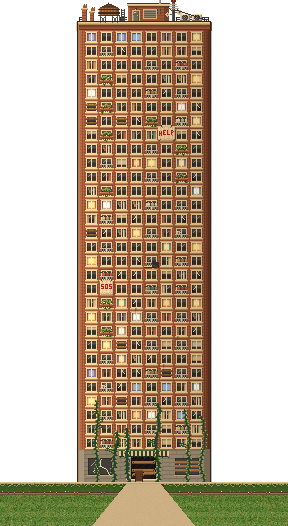
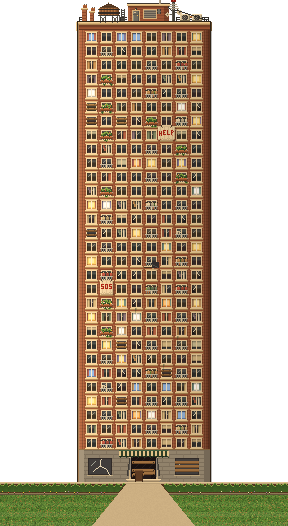
Round 49e: the opening's vines writhe
The sick lower floors' growth is its own transparent picture now
(assets/opening/growth_2|3.png), laid over the facade and moved by a
texel-snapped shader driven by the opening timeline: the afternoon's ivy
stirs, the night's growth heaves. The mould stays baked in the wall.

Claude-Session: https://claude.ai/code/session_018G5NCP3m9WbvqqpohXSrqQ

diff --git a/tools/art/opening_facade.py b/tools/art/opening_facade.py
@@ -343,9 +343,10 @@ def _leaf(c, x, y, pal, flip=1):
 
 
 def growth(c, run, floor_y_fn, dim=1.0, rng_seed=4021):
-    """Draw the sick lower floors for this run. A pure function of the run: which piers carry a vine, how it wanders, and how high it WOULD
-    climb are fixed; the run only decides how far each has got — so run 2's vines are run 3's, shorter. `dim` darkens every colour (it is
-    drawn after the grade, so the growth is lit the way the night is)."""
+    """Draw the sick lower floors' GROWTH for this run — ivy and flesh up the piers, runners across the sills, the Nest's membranes and drips, the
+    fringe at the foot — onto `c`, which is a TRANSPARENT layer of its own (round 49d: the game wriggles it; it is no longer baked into the facade).
+    Every pixel is opaque. A pure function of the run: which piers carry a vine, how it wanders, and how high it WOULD climb are fixed; the run only
+    decides how far each has got — so run 2's vines are run 3's, shorter. `dim` darkens every colour (the layer is lit the way the night is)."""
     k = GROWTH_BY_RUN.get(run, 0.0)
     if k <= 0.0:
         return
@@ -428,19 +429,6 @@ def growth(c, run, floor_y_fn, dim=1.0, rng_seed=4021):
                     c.put(mx, y + 12 + d, flesh[0])
                 c.put(mx, y + 12 + ln, wet)
                 c.put(mx + 1, y + 12 + ln - 1, flesh[1])
-    # ---- the Green's mould: a dark stain running down from some sills (floors 12-6)
-    for n in range(LOW_GROWTH_TOP, NEST_TOP, -1):
-        y = floor_y_fn(n)
-        depth = (LOW_GROWTH_TOP - n + 1) / float(LOW_GROWTH_TOP)
-        for b in range(G.BAYS):
-            fr = random.Random(n * 7001 + b * 131 + 3)
-            if fr.random() < (0.10 + 0.25 * depth) * k:
-                fx = G.INNER_X0 + b * G.BAY_W + 2
-                mx = fx + fr.randrange(1, 10)
-                for d in range(fr.randrange(3, 8)):
-                    c.put(mx, y + 12 + d, (30, 52, 30, int(120 * (1.0 - d / 8.0))))
-                    if d < 3:
-                        c.put(mx + 1, y + 12 + d, (30, 52, 30, int(70 * (1.0 - d / 3.0))))
     # ---- the base: a fringe of flesh along the foot of the lobby, short and thick, wet at the tips (the night's)
     for x in range(G.BX0 + 2, G.BX1 - 2, 3):
         if door0 <= x <= door1 or run != 3:
@@ -453,6 +441,31 @@ def growth(c, run, floor_y_fn, dim=1.0, rng_seed=4021):
                 if d % 3 == 1:
                     c.put(x + 1, foot - d, flesh[0])
             c.put(x, foot - h, wet if fr.random() < 0.5 else flesh[2])
+
+
+def mould(c, run, floor_y_fn):
+    """The Green's mould: a dark stain running down from some sills (floors 12-6). A STAIN ON THE WALL — it is drawn into the facade itself and never
+    moves (round 49d split it from `growth`, which is its own layer so it can wriggle). Semi-transparent, so it must be drawn over the wall."""
+    k = GROWTH_BY_RUN.get(run, 0.0)
+    if k <= 0.0:
+        return
+    for n in range(LOW_GROWTH_TOP, NEST_TOP, -1):
+        y = floor_y_fn(n)
+        depth = (LOW_GROWTH_TOP - n + 1) / float(LOW_GROWTH_TOP)
+        for b in range(G.BAYS):
+            fr = random.Random(n * 7001 + b * 131 + 3)
+            if fr.random() < (0.10 + 0.25 * depth) * k:
+                fx = G.INNER_X0 + b * G.BAY_W + 2
+                mx = fx + fr.randrange(1, 10)
+                for d in range(fr.randrange(3, 8)):
+                    c.put(mx, y + 12 + d, (30, 52, 30, int(120 * (1.0 - d / 8.0))))
+                    if d < 3:
+                        c.put(mx + 1, y + 12 + d, (30, 52, 30, int(70 * (1.0 - d / 3.0))))
+
+
+def growth_rows(floor_y_fn):
+    """The rows the growth spans, for the game's wriggle: (top, foot) = the highest row a vine can reach (floor 12's) and the building's foot."""
+    return floor_y_fn(LOW_GROWTH_TOP), G.GROUND_Y - 1
 
 
 def _mass(c, gx, gy, fr, flesh, pale, wet):

diff --git a/tools/art/opening.py b/tools/art/opening.py
@@ -1334,13 +1334,22 @@ def draw_scene(run=1):
             night_light(c.img)
         c.px = c.img.load()
     keep = [(hp['x'] - 1, hp['y'] - 2, hp['x'] + hp['w'] + 1, hp['y'] + hp['h'] + 2) for hp in meta['helps']]
-    saved = [(r, c.img.crop(r)) for r in keep]
-    opening_facade.growth(c, run, floor_y, dim={1: 1.0, 2: 0.9, 3: 0.66}[run])      # the sick lower floors, laid over the graded wall (nothing above floor 12)
-    for (r, patch) in saved:                                      # …but a HELP sheet is the point of its window: no vine grows over it
-        c.img.paste(patch, r[:2])
+    opening_facade.mould(c, run, floor_y)                         # the Green's stains: on the wall, still
     c.px = c.img.load()
     meta['passers'] = choose_passers(meta, run)
     meta['_over'] = window_overlays(c.img, meta)          # the frames of the people's windows, cut from the FINISHED (graded) picture: the game lays them back over its figures
+    # the sick lower floors' growth (nothing above floor 12) is its OWN transparent layer, drawn the way the night is lit and laid by the game over the
+    # facade (and under everything the game adds to it) — so the game can make it WRITHE (owner round 49d: "make them sort of wriggle, as if they are
+    # trying to consume the building"). Laid flat it is exactly what used to be baked into the wall.
+    cgr = Canvas(W, SCENE_H, seed=606)
+    opening_facade.growth(cgr, run, floor_y, dim={1: 1.0, 2: 0.9, 3: 0.66}[run])
+    for r in keep:                                                # …but a HELP sheet is the point of its window: no vine grows over it
+        cgr.img.paste((0, 0, 0, 0), r)
+    cgr.px = cgr.img.load()
+    if cgr.img.getbbox() is not None:
+        top, foot = opening_facade.growth_rows(floor_y)
+        meta['_growth'] = cgr.img
+        meta['growth'] = {'top': top, 'foot': foot}
     # the garden layer, on its own canvas
     cg = Canvas(W, SCENE_H, seed=505)
     gmeta = {'fires': []}
@@ -1662,6 +1671,9 @@ def build(run):
     over = scene_meta.pop('_over', None)
     if over is not None:
         out['winover_%d.png' % run] = over
+    growth_img = scene_meta.pop('_growth', None)
+    if growth_img is not None:
+        out['growth_%d.png' % run] = growth_img
     out['garden_%d.png' % run] = garden
     if run == 2:                                                  # the afternoon's fog (owner round 36j)
         out['fog_2.png'] = draw_fog(2, 'mid')
@@ -1759,6 +1771,8 @@ def compose(files, meta, cam, run):
             img.alpha_composite(spr, (cl['x'], y))
     top = VIEW_H - L['scene']['h'] + int(round(L['scene']['p'] * cam))
     img.alpha_composite(files['scene_%d.png' % run], (0, top))
+    if ('growth_%d.png' % run) in files:                          # the vines, laid flat (the game wriggles them)
+        img.alpha_composite(files['growth_%d.png' % run], (0, top))
     for key, f in (('fog', 'fog_%d.png'), ('garden', 'garden_%d.png'), ('fogf', 'fogf_%d.png')):
         if (f % run) in files:
             top = VIEW_H - L[key]['h'] + int(round(L[key]['p'] * cam))

diff --git a/CLAUDE.md b/CLAUDE.md
@@ -2782,4 +2782,6 @@ means no rendering — UI layout and art still need an in-editor look.
   **(1) Fire damage** — one block of numbers in `WorldState` ("FIRE DAMAGE": `FIRE_BURN_INTERVAL` 2.2 s, `FIRE_BURN_POINTS_PER_STAGE` 2, `FIRE_BURN_INSET` 14 px) read by every fire (the corridor's `building_floors`, an apartment's `room.gd`, a Molotov splash) — the three copies of `FIRE_DMG_INTERVAL` / `BURN_INTERVAL` 1.1 are gone. A tick is **half a health stage** (`Player.receive_burn`: the flash / hurt pose / pack slam of any hit via the shared `_begin_hit()`, a stage dropped on every second tick), so a stage costs **4.4 s in the flames** (was 1.1 s: five stages in 5.5 s). **My reading of "cut it by half and the speed too": damage ×½ AND the rate ×½, i.e. a quarter of the old hurt per second — if you meant only one of them, `FIRE_BURN_INTERVAL` / `FIRE_BURN_POINTS_PER_STAGE` are the two dials.** **The box**: `FireField.fire_hot_at(x)` is no longer "the player's 42 px burning cell" — it is the **carpet the front layer actually draws** (`_carpet_at`, shared with `run_spans`: the cell is lit, and not within 36 px of a door, and not in the stairwell keep-out; `carpet_stretch_at`), pulled `FIRE_BURN_INSET` in from each end of the stretch (`burn_box`, never narrower than 12 px about its middle — `BURN_CORE_HALF`). The old rule hurt in the 36 px either side of every door (cells lit, nothing drawn), under the tapering cap at each end, and 8 px past the stairwell shaft (`STAIR_HEAT_MARGIN` is gone: the shaft's box is its drawn width pulled in). `is_burning_at` stays the CELL state (drawing, spreading, dousing). **Enemies use the same `fire_hot_at`** (`building_floors` / `room.gd` — the old player == enemy parity rule kept, so nothing is cooked where the player would not be), `ApartmentFire.fire_hot_at` = a spot's heart (`SPOT_RADIUS` − inset), `MolotovFire.in_fire(x, y, burn)` pulls the patch's ends in for the player's damage only (an enemy still catches anywhere in it). **Running through fire unburned already existed in the corridor and the splash; the apartment's interior fire lacked it and has it now.** Locked by `fire_test` (`_test_fire_hot_at` rewritten — 10 checks fail on the old cell rule; `_test_apartment_fire_box`, `_test_burn_on_floor` on a real floor with the player's physics off: nothing at 2.0 s, a half-tick at 2.6 s with the portrait held, one stage at 4.8 s, nothing running / at a lick / at a door — each mutation-checked: interval back to 1.1 and the running exemption removed each fail it) and `molotov_test`. `tools/bot_run.gd` asks `fire_hot_at` too. Not changed: an enemy's own burn damage-over-time (`BURN_INTERVAL` 1.5 in the zombies).
   **(2) Stamina** (`player.gd`): sprint drain 12 → **14.4** a second (+20 %; the re-engage floor is its own constant `STAMINA_SPRINT_MIN` 2.4 = the old 12 × 0.2, so it did not move); **walking at the combat pace** (`direction != 0`, not scavenge, not crouching, not sprinting, not shoving) drains `STAMINA_COMBAT_WALK_DRAIN` **3.0** a second — about a fifth of a sprint, ~22 of 100 across a 7 s corridor — and **nothing recovers while it does** (like a sprint); the slow scavenge walk, a crouch and god mode cost nothing, and an empty bar stays empty while you keep walking in combat mode (no speed penalty — the cost is that it cannot swing or shove, `stamina < 25 %` / `< 10`). Both rates run through `get_sprint_drain_mult()` (Vivianne's −20 %, Efficient Stride / Featherfoot / Light Feet), which is a small widening of those perks' scope ("sprint stamina cost" now also covers combat walking). The combat entry of the mode tooltip says so (`HUD.mode_tip_content`). **Numbers are a first guess — 3.0 is the dial for how hard combat-mode walking bites.** Locked by the new **`stamina_test`** (the 80th suite; mutation-checked: the old 12.0 and a disabled combat-walk branch each fail it).
   **(3) The end screen** (`game_over.gd`): the labels were fixed-size and non-wrapping, so on a full-screen window a long run line grew rightward from its left edge — off the screen and off-centre. It is now one `Column` (a `VBoxContainer` in a `MarginContainer`, `SIDE_MARGIN` 146) of wrapping, centre-aligned lines; each run is two lines (what happened / the dimmer tallies). Locked by `progression_test._test_game_over_layout` (every Label / Button inside the screen and centred on it with huge tallies; the checker is itself shown to flag an unwrapped and a left-aligned line). Looked at in an xvfb capture at 1152 × 648 only — **not** on the owner's 2000 × 1104 window.
+- **ROUND 49e — THE OPENING'S VINES WRITHE (owner: "Those vines that you added to the night exterior building, can you make them move? Make them sort of wriggle, as if they are trying to consume the building"; docs/OPENING.md "Round 49d"):**
+  the sick lower floors' growth (ivy up the piers, runners, the Nest's flesh and drips) is its OWN transparent picture now (`assets/opening/growth_<2|3>.png`, written by `tools/art/opening.py`, composited back into the still facade by `compose()`); the Green's mould stays baked in the wall (`opening_facade.mould` — a semi-transparent stain would smear on a moving layer). `opening_exterior.gd` lays it as a `Growth` sprite directly over the facade with `WRITHE_SHADER_CODE`: a canvas_item shader that displaces by WHOLE TEXELS (two travelling waves + a heave running up the growth, stronger toward the foot), driven by the timeline's `t` — a pure function of `t`; `WRITHE_AMP` {2: 0.9, 3: 1.7} texels (the afternoon's ivy stirs, the night's flesh heaves). Run 1 has no growth picture and loads none. Locked by `opening_test._test_growth` (mutation-checked: the layer call removed and the clock frozen each fail it) + `opening.py --check`. The LOOK of the motion is judged from xvfb frames only; the amplitude and wave speeds are first guesses.
 - Not started: more quests on the framework (003, 005, 006 and the mechanical halves of 002/004; quest-room reservation, achievements — see the GDD §11). The personal quests, the gun cabinet, 001 and 010 ARE built.

diff --git a/docs/OPENING.md b/docs/OPENING.md
@@ -182,3 +182,11 @@ The owner's list: "a lot of noise… some windows look good and normal, whereas 
 
 **Checked by:** `opening.py --check` (art current; `runner_clearance`; garden depth order), `opening_test` (new: the standing frames, passers, the runner's tiers, the night storm and fliers, HELP on one line; each new check is shown to fail on the old behaviour — the HELP measure on HEAD's two-line sheet, the asymmetry on a mirrored sprite by construction, the bolt shape by its connectedness test), engine frames under xvfb for the night at 1.2 / 3.4 / 5 / 5.9 / 8 / 11 s (a forked bolt behind the tower with the sky lit, the fliers, the sick lower floors).
 **Not checked / owner's eye:** the LOOK of everything on a real monitor; the fliers' read at game scale (they are shadows by design: judged at 1x on engine frames only); the thunder was never listened to; the runner's gait at 9 Hz and the cat's gallop at 6 Hz were judged from contact sheets, not watched; the roof's night lift (x2.2) may still be bright against the dark tower.
+
+## Round 49d — the growth writhes (owner: "Those vines that you added to the night exterior building, can you make them move? Make them sort of wriggle, as if they are trying to consume the building")
+
+- **The growth is its own picture** (`assets/opening/growth_<2|3>.png`, 288 x 526 like the scene, transparent, every pixel opaque — written by `opening.py build()`, composited into the finished facade by `compose()` so the still pictures and the contact sheets look as they did). `opening_facade.growth` now draws onto a transparent canvas of its own (`cgr`, `dim` = the run's grade); the Green's **mould is split out** (`opening_facade.mould`) and stays in the baked facade: a semi-transparent stain needs the wall under it, and a moving layer would smear it. The overlays that matter (`winover_<run>.png`, the window frames) are cut from the growth-free scene, and HELP sheets are cleared out of the growth layer so no vine grows over one. Checked against the old picture: run 2's composite is identical; run 3 differs in 21 px (the mould no longer composites under the vines it used to sit beneath). `meta.scene.growth` = `{top, foot}` (floor 12's row .. the foot). Run 1 has no growth picture.
+- **The writhe** (`opening_exterior.gd`, `WRITHE_SHADER_CODE`; `_lay_growth` puts a `Growth` Sprite2D directly over the facade, under the people and flames laid on the scene afterwards): a canvas_item shader that, per **texel**, samples the picture from a neighbour a few texels away — the displacement is floored to whole texels and sampled at texel centres, so the pixel art stays crisp and nothing blurs. Two travelling waves (along the stem and across it, at different speeds) plus a slow **swell** that runs up the growth like a heave; the amplitude rises from the thin tips toward the foot (the Nest at the base heaves hardest). `WRITHE_AMP` {2: 0.9, 3: 1.7} texels: **the afternoon's ivy only stirs, the night's flesh heaves**. The shader's clock is the timeline's `t` (`_apply` sets `wt`), so the picture is a pure function of `t` like everything else in the opening; a hurried (5x) climb writhes faster with it.
+- **Missing art** is handled like any other layer: `art_present` is false for run >= 2 when `growth_<run>.png` is missing (the old black title screen); run 1 never loads one.
+- **Locked by** `opening_test._test_growth` (run 1 clean; the picture exists at the scene's size; there is growth; every growth pixel is opaque; nothing above floor 12; none over a HELP sheet; the exterior lays it directly over the facade and under the people; the amplitude is the run's; the clock is the timeline's; the night heaves harder; the displacement snaps to whole texels) — mutation-checked: the `_lay_growth` call removed fails the two "exterior lays the growth" checks, the clock frozen to 0 fails the two "its clock is the timeline's" checks. `opening.py --check` holds the new PNGs current.
+- **Not checked / owner's eye:** the LOOK of the motion on a real monitor — judged from xvfb frames only (the vines change shape between 1.0 and 1.75 s; I did not watch it play). `WRITHE_AMP`, the wave speeds (`wt * 2.3 / 1.9`) and the swell are first guesses: if it reads as shimmer rather than reaching, raise the amplitude; if it reads too frantic, slow the two `wt` multipliers.
